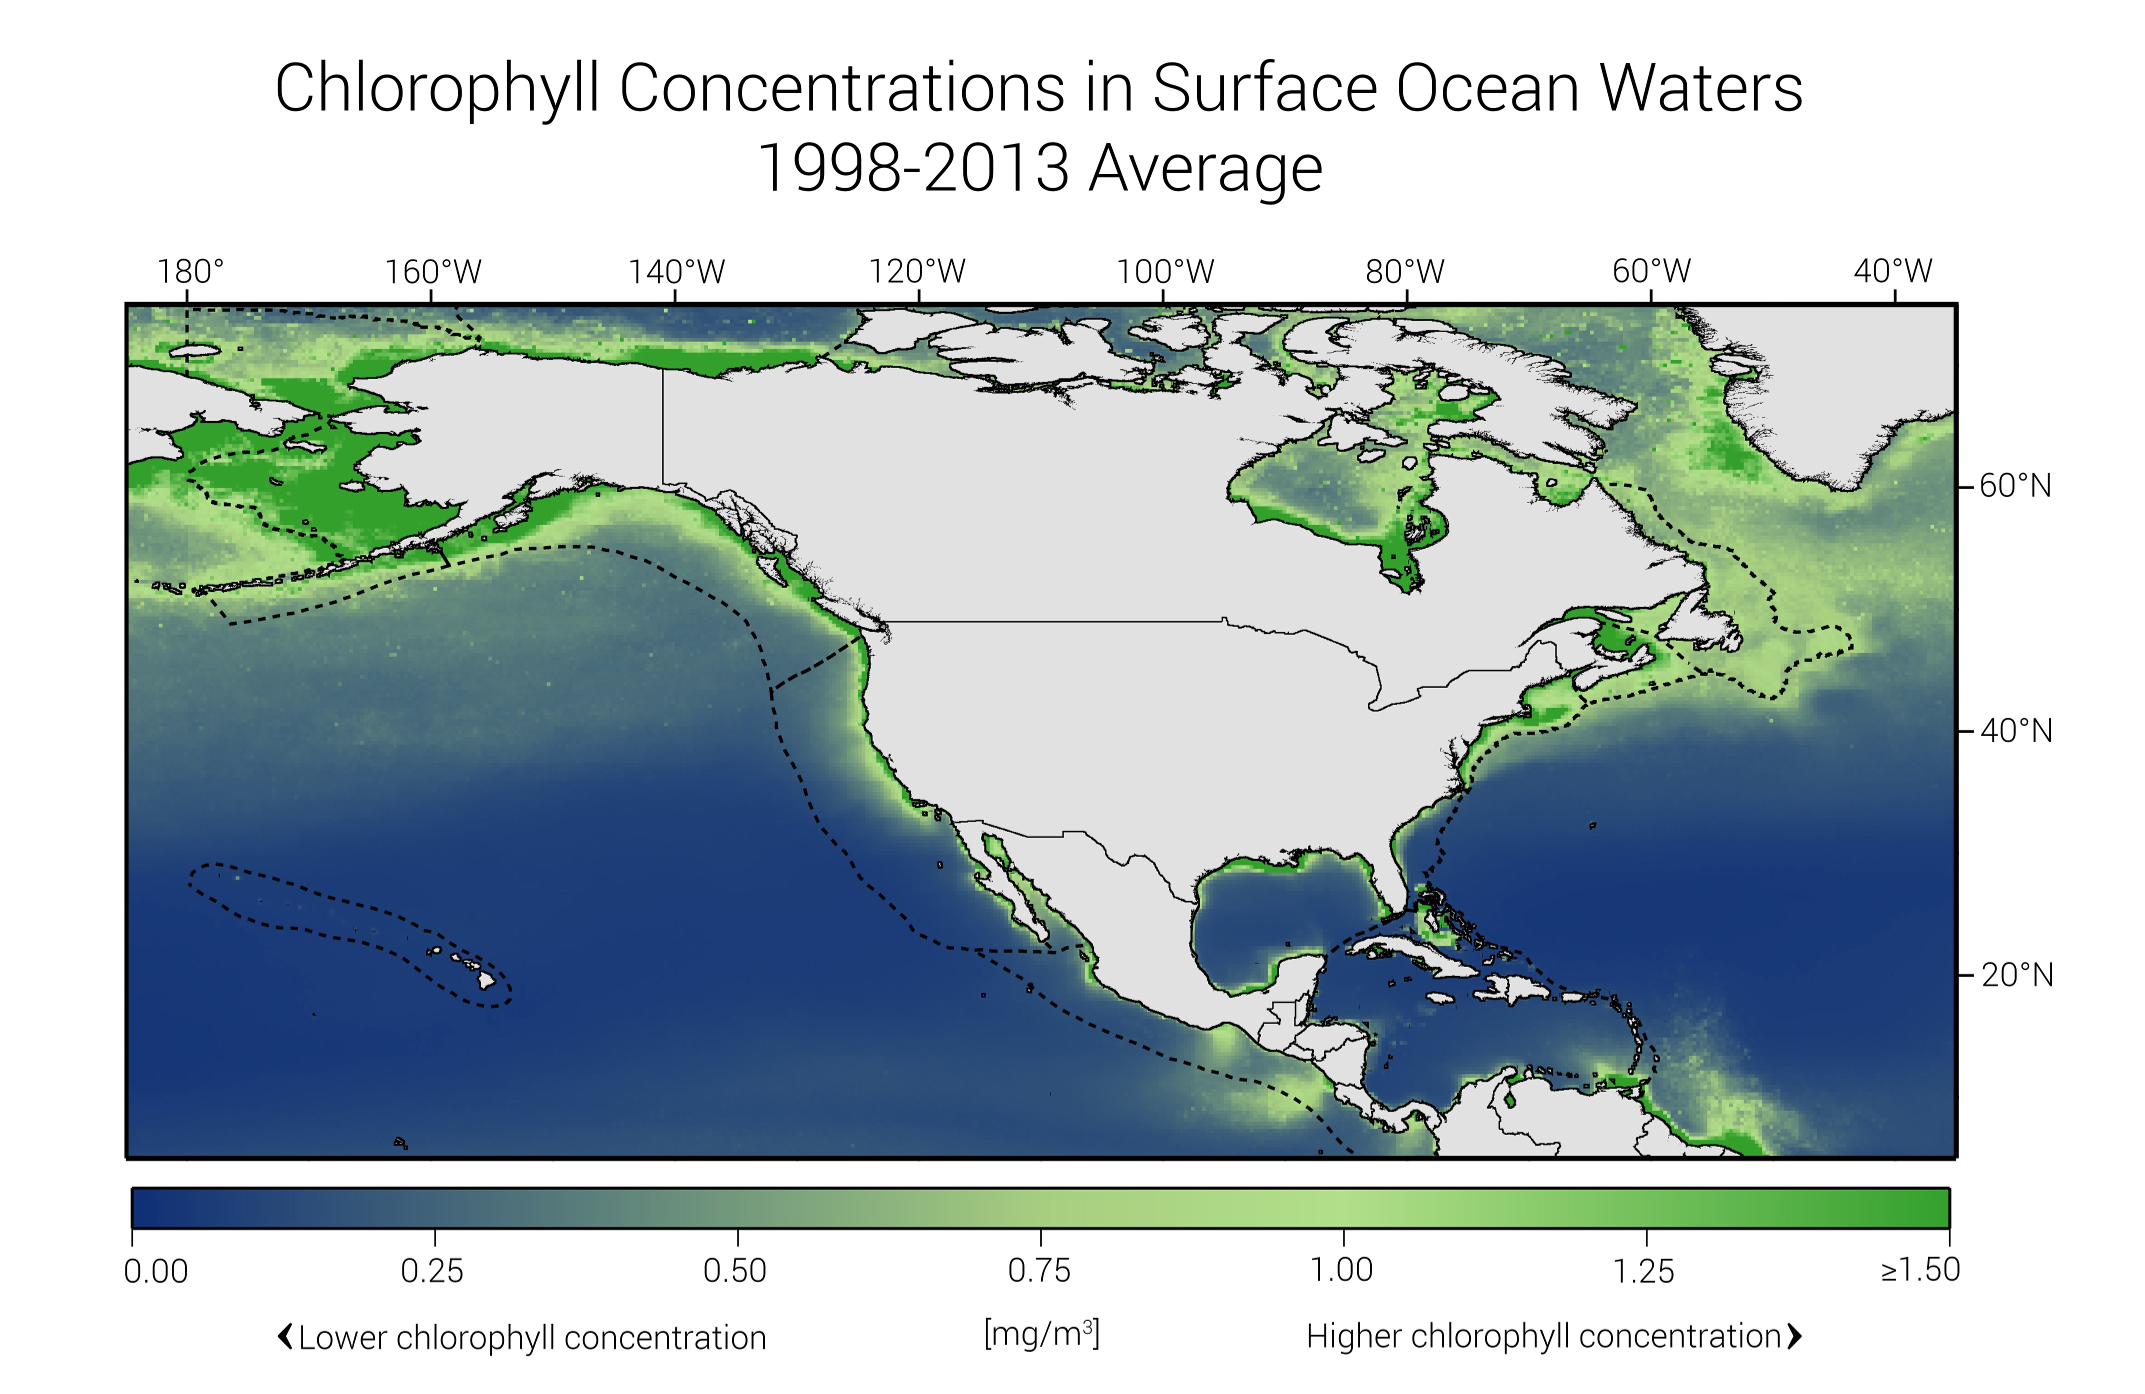
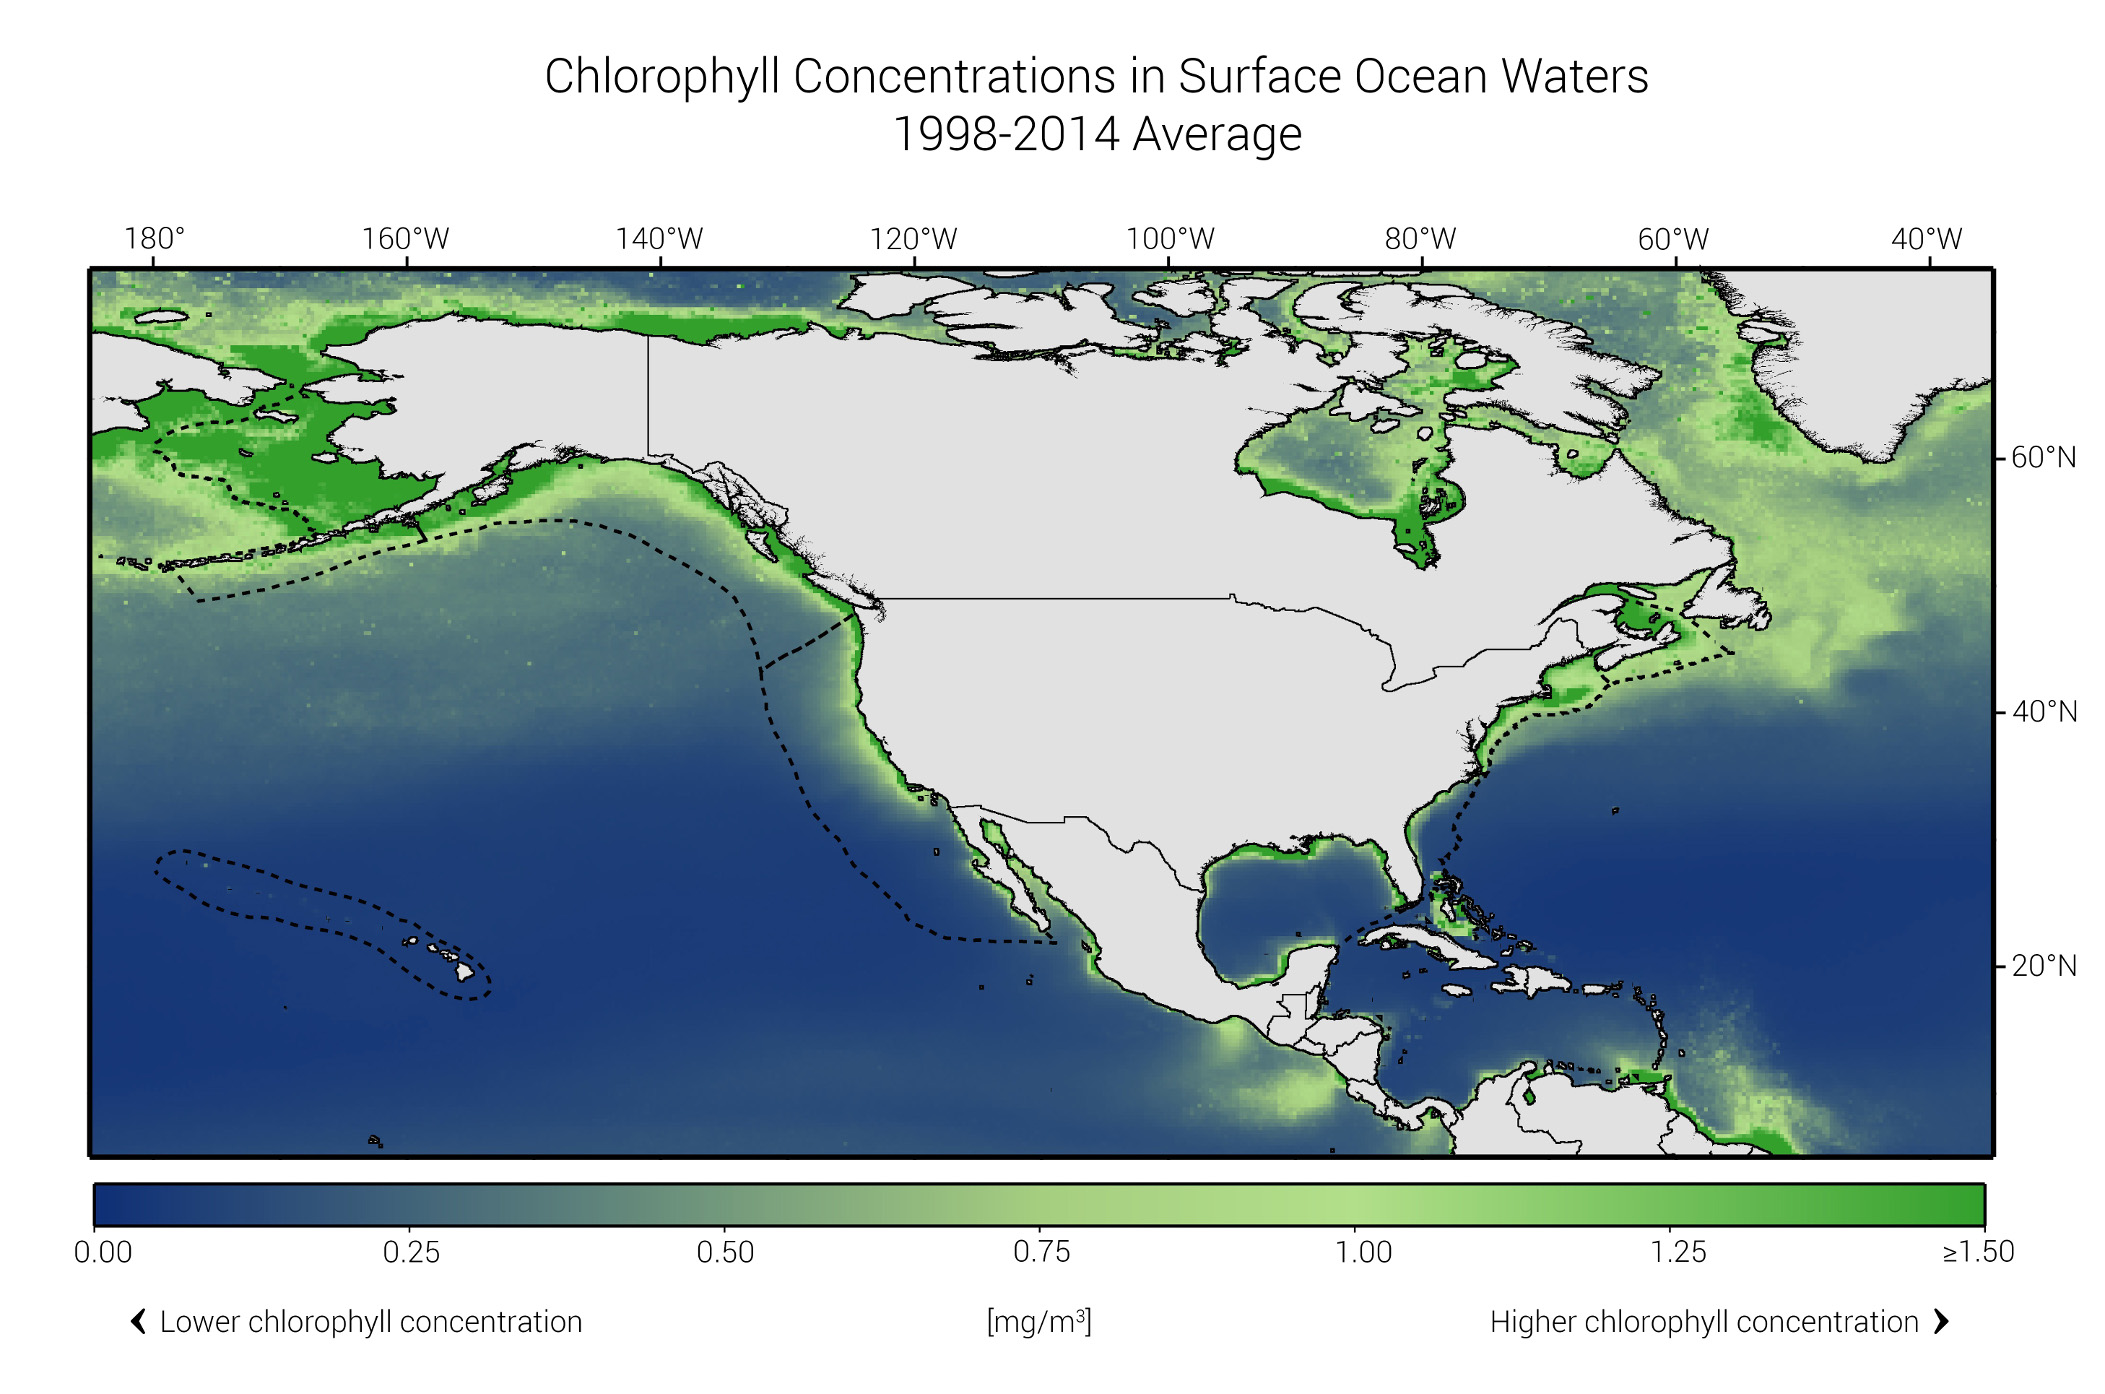
updated basemap, added legend

Changed region(s): [[0.0309, 0.0308, 0.9881, 0.9871], [0.0926, 0.6169, 0.247, 0.7095], [0.5867, 0.4319, 0.6176, 0.4627]]

diff --git a/index.html b/index.html
@@ -31,9 +31,9 @@
 
   #coastal_svg {
     position: absolute;
-    width: 45.3%;
-    left: 5.1%;
-    top: 24.9%;
+    width: 48.3%;
+    left: 4.1%;
+    top: 22.5%;
   }
 
   .graphPopup {
@@ -45,7 +45,7 @@
   }
   </style>
 </head>
-<body>		
+<body>
   <div id="wrapper">
     <img id="map" src="maps/map-compressed.jpg">
     <img id="graph" src="graphs/NE_SS.jpg">
